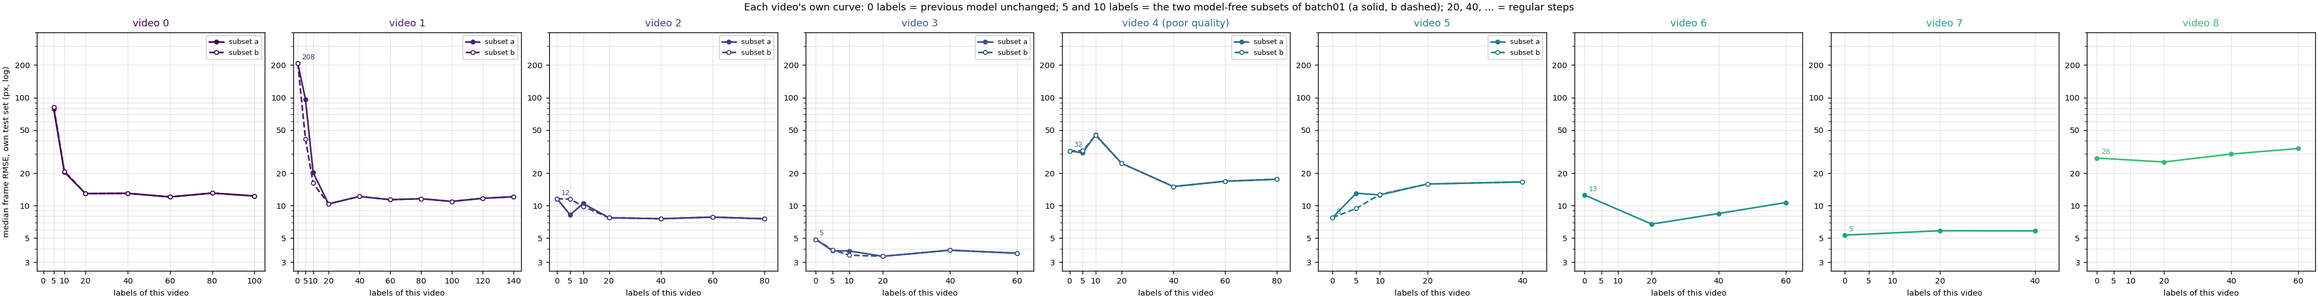
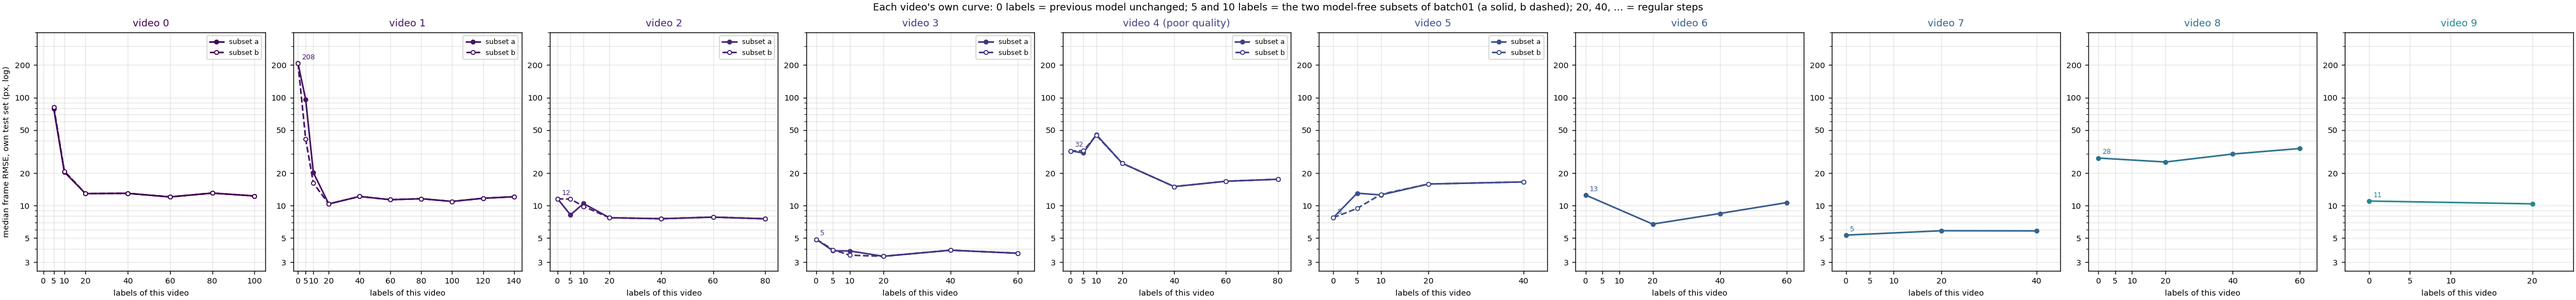
Video 9 v2: batch02 selected (10359 of 57158 pool frames flagged); back-test of model 1011 added

diff --git a/v2_new_pupil_top_video_scaling/9_20251023_Pluto1/results/README.md b/v2_new_pupil_top_video_scaling/9_20251023_Pluto1/results/README.md
@@ -9,4 +9,4 @@ contributed none); shuffles 1011, 1012, ...
 | labels of this video | median | p90 | frames > 50 px | keypoints conf >= 0.6 | pool frames flagged by the jump rule |
 |---|---|---|---|---|---|
 | 0 (video-6 20-label model 711, applied unchanged) | 23.41 px | 41.4 | 8% | 36% | – |
-| 20 (shuffle 1011) | 10.39 px | 24.3 | 8% | 55% | pending |
+| 20 (shuffle 1011) | 10.39 px | 24.3 | 8% | 55% | 10359 of 57158 (18.1%) |
